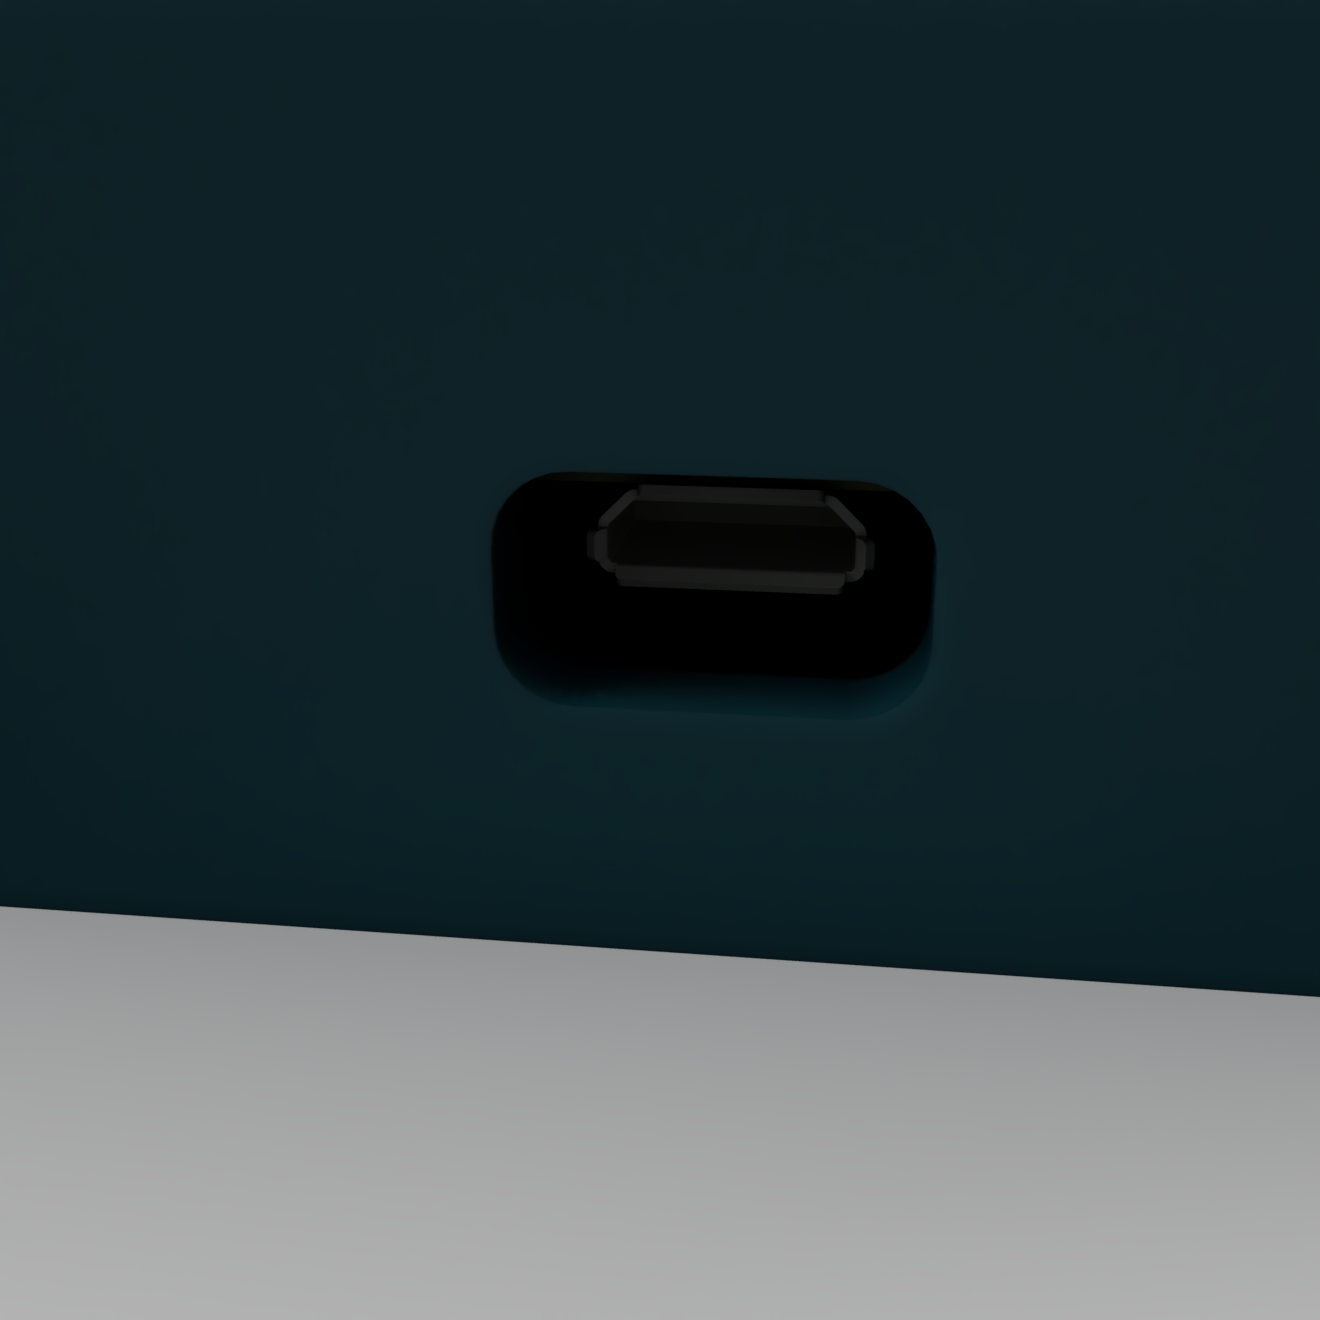
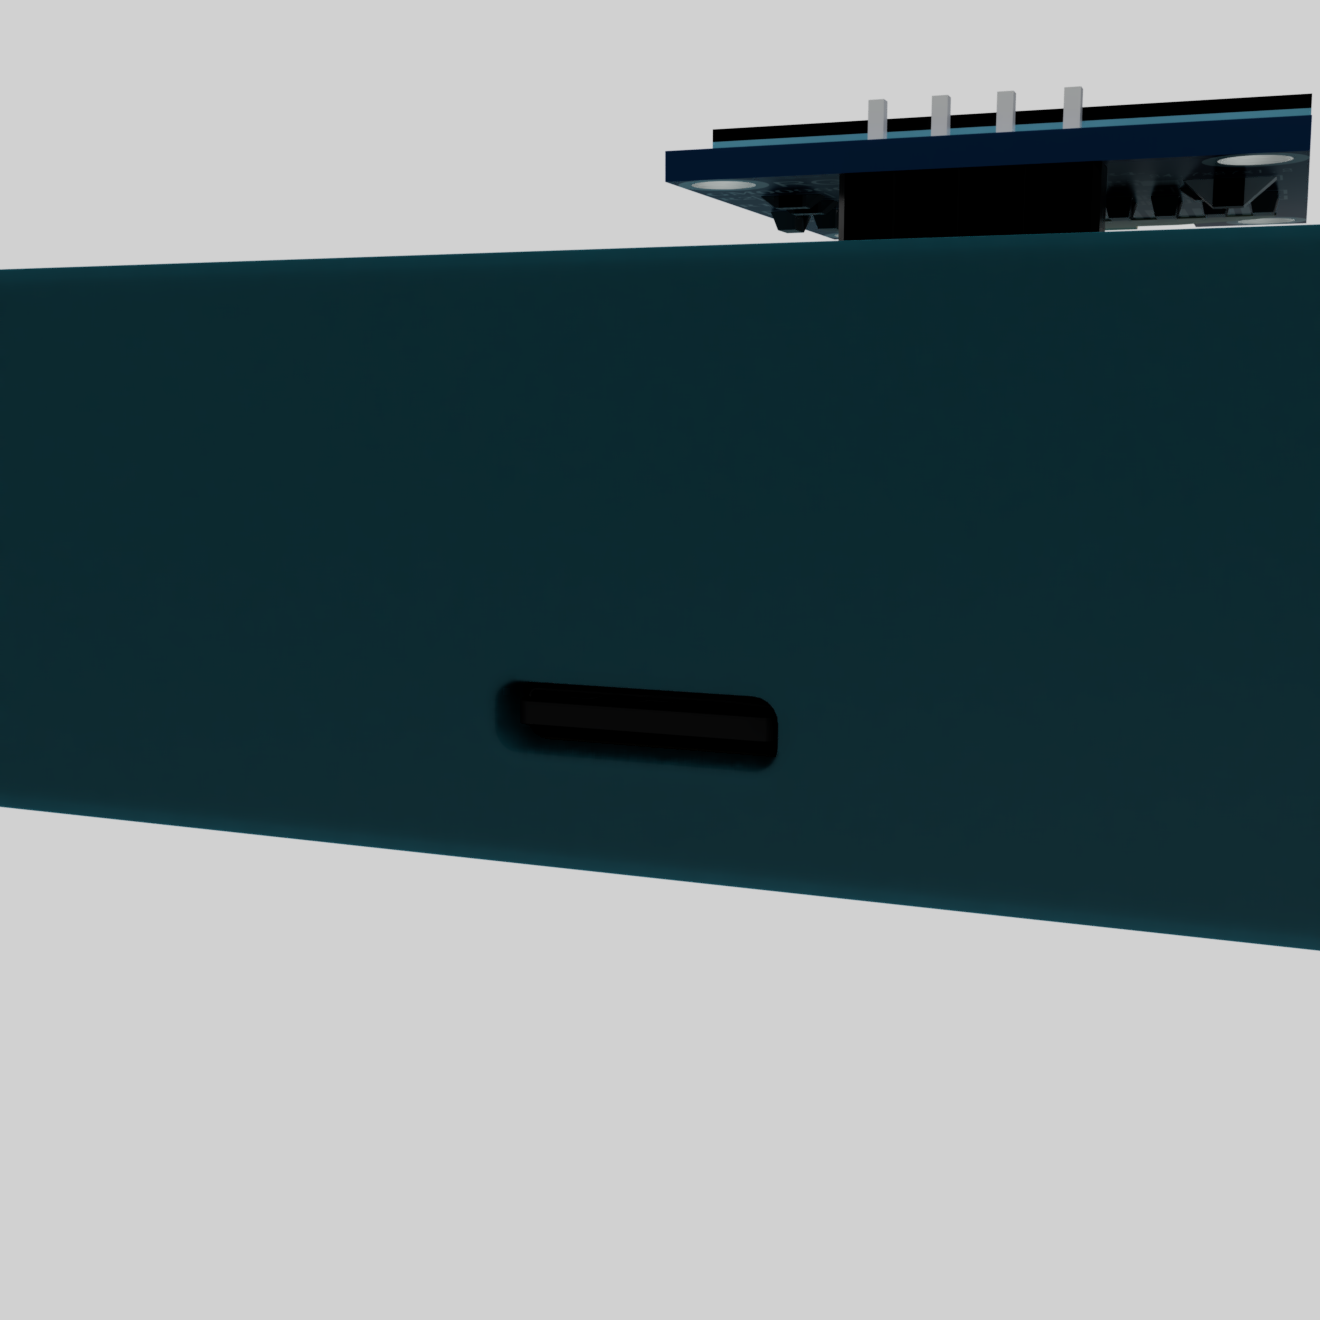
update readme.MD

diff --git a/README.md b/README.md
@@ -4,6 +4,28 @@
 
 # MP3-Player
 
+# How to use?
+Solder all the components to the board how they should be soldered. Print the case and the hatch. Screw the pcb to the case. Download the sofrware, flash it using arduino ide. Now you need to have a microSD card. Just add your mp3 or wav songs to the root directory of the microSD card, plug the microSD card to the reader, add your charged battery and you can listen to the songs.
+
+
+# Software
+I wrote the main firmware in arduino ide c++. To flash the board, you must install arduino ide and the libraries i am using. Then connect the micro usb cable to the mcu, and flash the code. The code handles all the comunications between the modules, plays the song to the PCM5102A and creates the ui, checks for buttons, checks battery etc.
+
+# Electronics
+[![View PCB on KiCanvas](https://hack.club/pcb-badge)](https://kicanvas.org/?repo=https%3A%2F%2Fgithub.com%2Ftomstraka01-git%2FMP3-Player%2Ftree%2Fmain%2FPCB-MP3-Player)
+
+I used a custom PCB, wich takes power from a 3.3V Li-Po 450 mah (the battery should last for few hours) and passes it through a fast fuse for short circuit protection and diode for reverse connection protection. Then it goes to the rasberry pi pico 2 WH, wich converts the power to stable 3.3V. The MCU reads the micro sd card reader module through spi, and then plays the song into the PCM5102A. It also displays all the info to the oled screen, and checks the five buttons for input. The five buttons have these features:
+- Volume Down
+- Volume Up
+- Previous Song
+- Next Song
+- Play/Pause
+
+  
+![MainPhoto](images/MainAssembly_IMAGE5.png)
+
+![MainPhoto](images/MainAssembly_IMAGE6.PNG)
+
 
 # Features
 - ### Has a 3.5mm audio jack output, you can connect your earphones to it and listen directly.
@@ -21,15 +43,29 @@
   <img src="images/MainAssembly_IMAGE4.png" alt="MainPhoto" width="600">
 </p>
 
-# Electronics
-I used a custom PCB, wich takes power from a 3.3V Li-Po 450 mah and passes it through a fast fuse for short circuit protection and diode for reverse connection protection. Then it goes to the rasberry pi pico 2 WH, wich converts the power to stable 3.3V. The MCU reads the micro sd card reader module through spi, and then plays the song into the PCM5102A. It also displays all the info to the oled screen, and checks the five buttons for input. The five buttons have these features:
-- Volume Down
-- Volume Up
-- Previous Song
-- Next Song
-- Play/Pause
+# Bill of Materials (BOM)
 
-  
-![MainPhoto](images/MainAssembly_IMAGE5.png)
-
-![MainPhoto](images/MainAssembly_IMAGE6.PNG)
+| Item Name | Qty | Price (total) (USD) | Item Link | Notes |
+|---|---|---|---|---|
+| Resistor 10k | 5 | $0.24 | [Link](https://dratek.cz/arduino-platforma/7650-rezistor-10k-0.25-w-1.html) | Resistors for buttons, so that the circuit works |
+| Button | 5 | $0.47 | [Link](https://dratek.cz/arduino-platforma/176310-mikrospinac-tlacitko-6-x-6-x-8-mm.html) | The buttons, used for skipping songs, changing volume, pausing, etc. |
+| GY-PCM5102 I2S audio module | 1 | $4.61 | [Link](https://www.laskakit.cz/gy-pcm5102-i2s-audio-modul/) | The audio generator, changes digital sound to analog |
+| 3.3V micro SD card module | 1 | $3.20 | [Link](https://www.laskakit.cz/laskakit-microsd-card-modul/) | Micro SD card reader, reads the micro SD card |
+| OLED display 128x64 white | 1 | $7.86 | [Link](https://dratek.cz/arduino-platforma/3181-iic-i2c-oled-1-3-displej-128x64-bily.html) | OLED display, shows the user data like volume, info about songs, battery percent etc. |
+| Resistor 100k | 1 | $0.05 | [Link](https://dratek.cz/arduino-platforma/7653-rezistor-100k-0.25-w-1.html) | Resistor for voltage divider, which steps down the voltage so the ADC can read it |
+| Resistor 330k | 1 | $0.05 | [Link](https://dratek.cz/arduino-platforma/174965-metalizovany-rezistor-330k-0-25w-1.html) | Resistor for voltage divider, which steps down the voltage so the ADC can read it |
+| Condensator 100µF 50V | 4 | $0.20 | [Link](https://dratek.cz/arduino-platforma/7825-kondenzator-100uf-50v.html) | Condensators, smooths the voltage and evens out current spikes |
+| Fuse Fast 250V 2A | 10 | $0.19 | [Link](https://www.tme.eu/cz/details/zks-2a/pojistky-5x20mm-rychle/eska/520-620/) | Fast fuses — if there is a short circuit, the fuses blow and disconnect the battery from the circuit, protecting the battery and the person |
+| Diode Schottky; THT; 40V; 3A; DO201AD; Ufmax: 0.475V | 2 | $0.64 | [Link](https://www.tme.eu/cz/details/1n5822-st/diody-schottky-tht/stmicroelectronics/1n5822/) | Diode, prevents opposite polarity battery connections |
+| Dupont female pins | 1 | $0.33 | [Link](https://dratek.cz/arduino-platforma/913-dupont-dutinkova-lista-samice-samec.html?cv) | Used for plugging in the OLED display and other things |
+| Dupont male pins | 1 | $0.15 | [Link](https://dratek.cz/arduino-platforma/1331-dupont-40pin-2-54-mm-kolikova-lista-rovna.html) | Same as above, but male version |
+| JST 6-pin connector | 2 | $1.49 | [Link](https://www.tme.eu/cz/katalog/signalove-konektory-raster-1-00mm_112946/?queryPhrase=SM06B&keywordSetName=extended) | SMD JST 6-pin connector, connects the micro SD card reader to the main PCB |
+| JST 6-pin cable | 2 | $1.41 | [Link](https://dratek.cz/arduino-platforma/122186-jst-sh-1.0mm-6-pin-vodic-samice.html) | The cable for the SMD JST connector |
+| Schurter fuse holder 10A 20x5mm | 2 | $2.28 | [Link](https://www.tme.eu/cz/details/0031.8211/pojistkova-pouzdra-do-pcb/schurter/) | Fuse holder — holds the fuse so it can be replaced when blown, no desoldering needed |
+| JST battery terminal | 3 | $0.93 | [Link](https://www.tme.eu/cz/details/s2b-ph-k-s/signalove-konektory-raster-2-00mm/jst/s2b-ph-k-s-lf-sn/) | Battery terminal — the battery connects to it and distributes the power |
+| Raspberry Pi Pico 2 WH | 1 | $9.71 | [Link](https://www.tme.eu/cz/details/sc1634/raspberry-pi-vestavene-systemy/raspberry-pi/raspberry-pi-pico-2-wh/) | The main brain of the system — reads the micro SD card, runs the UI menu, sends the sound output to the sound chip |
+| Li-Po battery 3.7V 450mAh | 1 | $5.90 | [Link](https://dratek.cz/arduino-platforma/179445-lipol-baterie-502248-450mah-3-7v.html) | Shipping to Czech Republic |
+| Shipping — Dratek.cz | 1 | $4.00 | [Link](https://www.dratek.cz) | Shipping to Czech Republic |
+| Shipping — TME.eu | 1 | $8.47 | [Link](https://www.tme.eu/) | Shipping to Czech Republic |
+| Shipping — LaskaKit | 1 | $3.76 | [Link](https://www.laskakit.cz) | |
+| **Total Price (USD)** | | **$55.70** | | |
